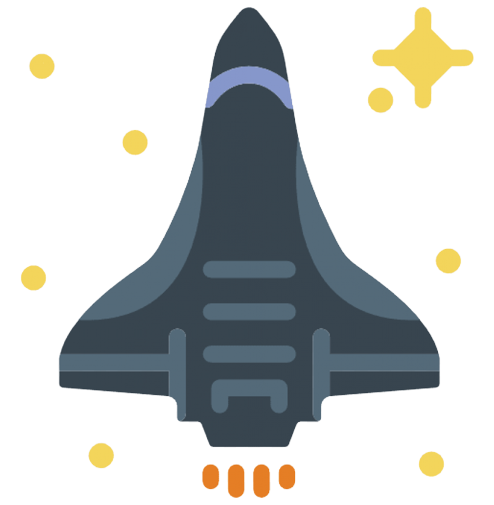
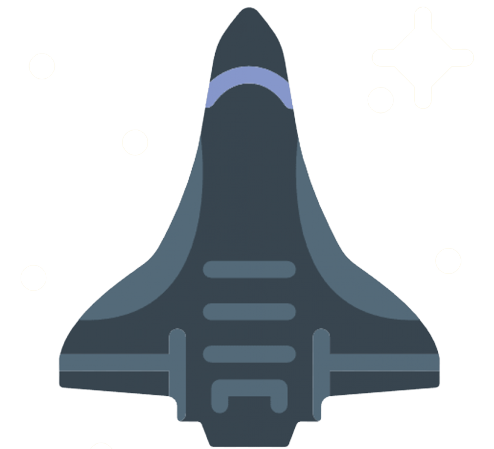
Added spaceship animation next to generated idea

diff --git a/frontend/src/components/Home/Home.js b/frontend/src/components/Home/Home.js
@@ -16,6 +16,8 @@ import {
 import "./Home.css";
 import Zoom from "react-reveal/Zoom";
 import StarImage from "../../assets/images/star.png";
+import SpaceshipImage from "../../assets/images/spaceship.png";
+import FlamesImage from "../../assets/images/flames.png";
 import { useState } from "react";
 import axios from "axios";
 
@@ -102,11 +104,40 @@ export default function Home() {
               </HStack>
             </Stack>
           </Center>
-          <Center>
-            <Heading marginLeft="30px" marginTop="30px" color="white">
-              {idea && idea}
-            </Heading>
-          </Center>
+          {idea && (
+            <>
+              <Center>
+                <Stack marginLeft="25px" marginTop="30px">
+                  <Heading
+                    size="lg"
+                    color="white"
+                    marginBottom="-50px"
+                    bg="linear-gradient(-325deg, #fc5c7d, #6a82fb, #05dfd7)"
+                    borderRadius="5px"
+                    textAlign="center"
+                  >
+                    {idea}
+                  </Heading>
+                </Stack>
+              </Center>
+              <Center>
+                <Box style={{ position: "static" }}>
+                  <Image
+                    style={{ marginLeft: "25px" }}
+                    src={SpaceshipImage}
+                    width="150px"
+                    opacity="0.4"
+                  ></Image>
+                  <Image
+                    style={{ marginLeft: "25px" }}
+                    src={FlamesImage}
+                    width="150px"
+                    className="extend"
+                  ></Image>
+                </Box>
+              </Center>
+            </>
+          )}
         </Box>
       </Zoom>
     </div>

diff --git a/frontend/src/components/Home/Home.css b/frontend/src/components/Home/Home.css
@@ -13,6 +13,25 @@
   }
 }
 
+.extend {
+  animation: extendMe 3s linear infinite;
+}
+@keyframes extendMe {
+  0% {
+    opacity: 0;
+    height: 50px;
+  }
+  50% {
+    opacity: 1;
+    height: 100px;
+  }
+
+  100% {
+    opacity: 0;
+    height: 110px;
+  }
+}
+
 /* taken from https://stackoverflow.com/questions/16771225/css3-rotate-animation */
 .image {
   position: absolute;
